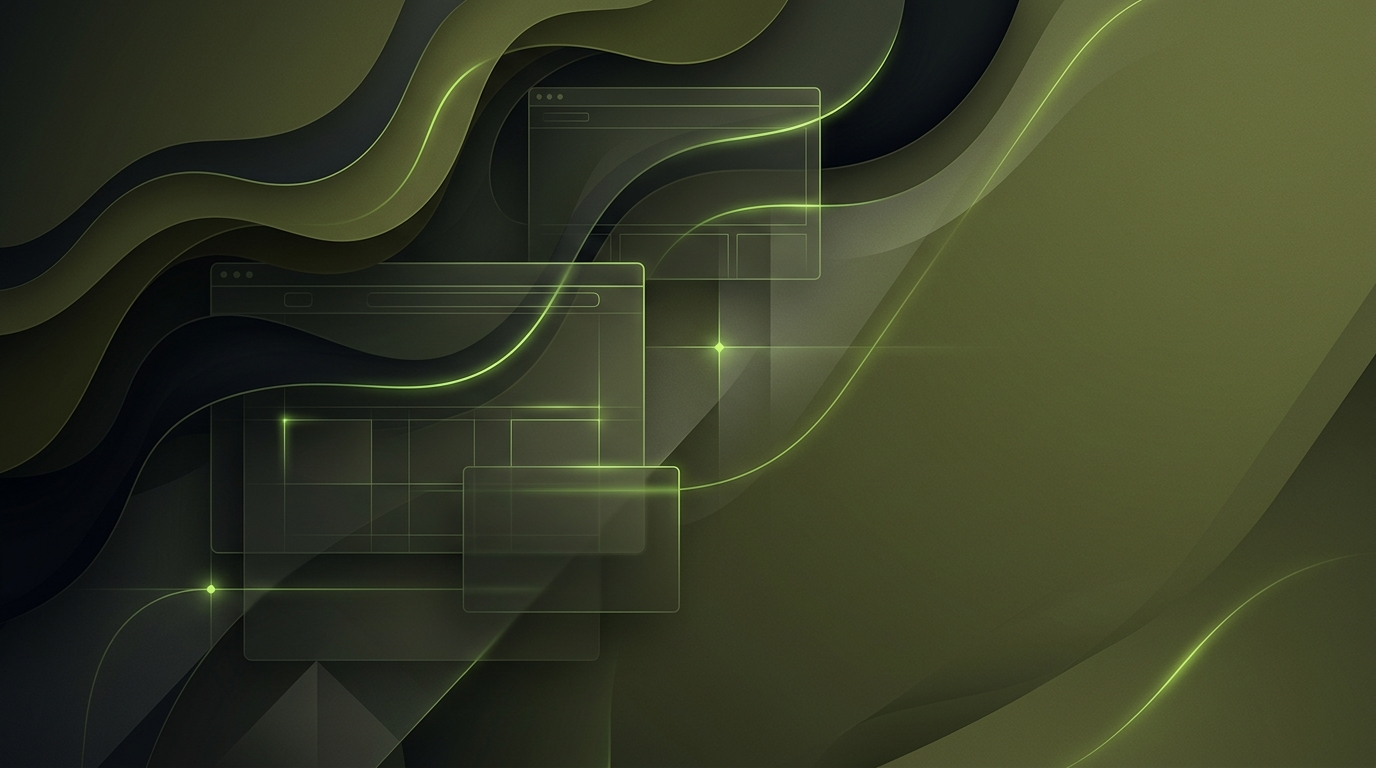
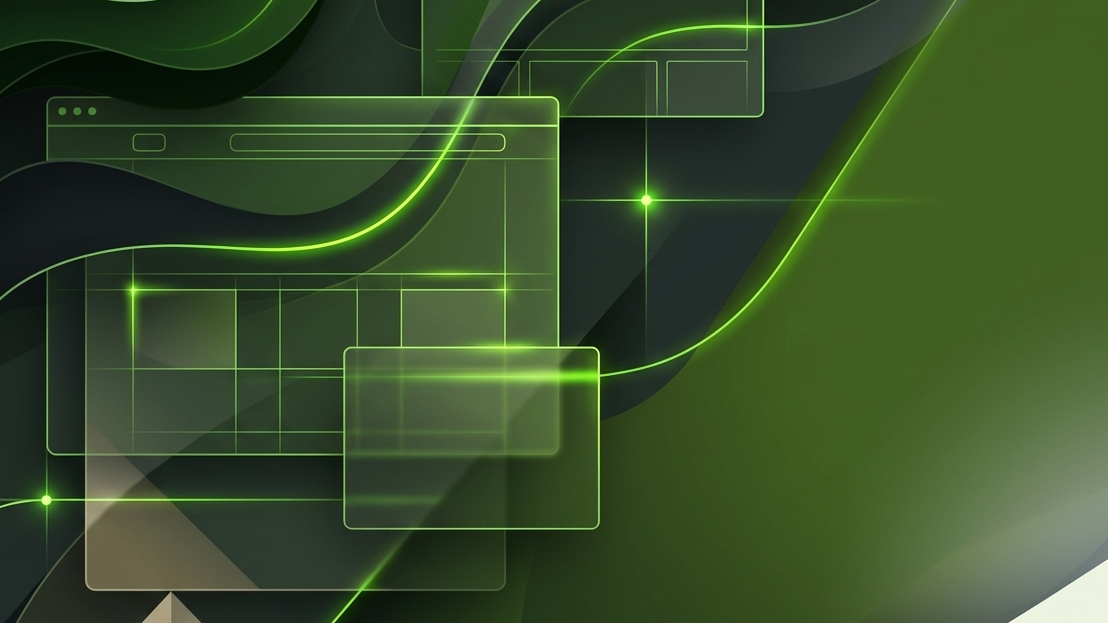
feat: update services section

diff --git a/src/components/services-section/service-item.tsx b/src/components/services-section/service-item.tsx
@@ -1,62 +1,61 @@
 import type { Service } from "../../types/service"
 
 type Props = {
-    service: Service
+	service: Service
 }
 
 export const ServiceItem = ({ service }: Props) => {
-    const Icon = service.icon
+	const Icon = service.icon
 
-    return (
-        <article className="group relative flex h-105 w-full shrink-0 overflow-hidden rounded-2xl border border-black/10">
-            {/* Background image */}
-            <img
-                src={service.image}
-                alt=""
-                className="absolute inset-0 h-full w-full object-cover transition-transform duration-700 group-hover:scale-105"
-            />
+	return (
+		<article className="group relative flex h-105 w-full shrink-0 overflow-hidden rounded-2xl border border-black/10">
 
-            {/* Overlay */}
-            <div className="absolute inset-0 bg-black/35 transition-colors duration-500 group-hover:bg-black/45" />
+			<img
+				src={service.image}
+				alt=""
+				className="absolute inset-0 h-full w-full object-cover transition-transform duration-700 group-hover:scale-105"
+			/>
 
-            <div className="absolute inset-0 bg-linear-to-t from-black/80 via-black/20 to-black/10" />
 
-            {/* Content */}
-            <div className="relative z-10 flex w-full flex-col p-7 sm:p-9">
-                <div className="flex items-start justify-between">
-                    <div className="flex h-14 w-14 items-center justify-center rounded-xl border border-accent/40 bg-accent/10 text-accent backdrop-blur-sm transition-all duration-500 group-hover:border-accent/70 group-hover:bg-accent/15">
-                        <Icon size={24} strokeWidth={1.5} />
-                    </div>
+			<div className="absolute inset-0 bg-black/60 transition-colors duration-500 group-hover:bg-black/80" />
 
-                    <span className="text-xs font-medium tracking-[0.2em] text-white/50">
-                        {service.number}
-                    </span>
-                </div>
+			<div className="absolute inset-0 bg-linear-to-t from-black/80 via-black/20 to-black/10" />
 
-                <div className="mt-auto max-w-2xl">
-                    <h3 className="text-3xl font-semibold leading-tight tracking-tight text-white sm:text-4xl">
-                        {service.title}
-                    </h3>
 
-                    <p className="mt-4 max-w-xl text-sm leading-relaxed text-white/70 sm:text-base">
-                        {service.description}
-                    </p>
+			<div className="relative z-10 flex w-full flex-col p-7 sm:p-9">
+				<div className="flex items-start justify-between">
+					<div className="flex h-14 w-14 items-center justify-center rounded-xl border border-accent/40 bg-accent/10 text-accent backdrop-blur-sm transition-all duration-500 group-hover:border-accent/70 group-hover:bg-accent/15">
+						<Icon size={24} strokeWidth={1.5} />
+					</div>
 
-                    <div className="mt-7 flex flex-wrap gap-2">
-                        {service.tags.map((tag) => (
-                            <span
-                                key={tag}
-                                className="rounded-full border border-white/15 bg-black/20 px-3 py-1 text-[10px] uppercase tracking-wider text-white/65 backdrop-blur-sm"
-                            >
-                                {tag}
-                            </span>
-                        ))}
-                    </div>
-                </div>
-            </div>
+					<span className="text-xs font-medium tracking-[0.2em] text-white/50">
+						{service.number}
+					</span>
+				</div>
 
-            {/* Accent line */}
-            <div className="absolute bottom-0 left-0 z-20 h-1 w-0 bg-accent transition-all duration-700 group-hover:w-full" />
-        </article>
-    )
+				<div className="mt-auto max-w-2xl">
+					<h3 className="text-3xl font-semibold leading-tight tracking-tight text-white sm:text-4xl">
+						{service.title}
+					</h3>
+
+					<p className="mt-4 max-w-xl text-sm leading-relaxed text-white/70 sm:text-base">
+						{service.description}
+					</p>
+
+					<div className="mt-7 flex flex-wrap gap-2">
+						{service.tags.map((tag) => (
+							<span
+								key={tag}
+								className="rounded-full border border-white/15 bg-black/20 px-3 py-1 text-[10px] uppercase tracking-wider text-white/65 backdrop-blur-sm"
+							>
+								{tag}
+							</span>
+						))}
+					</div>
+				</div>
+			</div>
+
+			<div className="absolute bottom-0 left-0 z-20 h-1 w-0 bg-accent transition-all duration-700 group-hover:w-full" />
+		</article>
+	)
 }

diff --git a/src/components/services-section/services.tsx b/src/components/services-section/services.tsx
@@ -21,10 +21,9 @@ export const Services = () => {
 	return (
 		<section
 			id="services"
-			className="relative w-full overflow-hidden bg-green-olive px-4 md:px-8 py-12 text-bg "
+			className="relative w-full overflow-hidden bg-[#e9f1db] px-4 md:px-8 py-12 text-bg "
 		>
 			<div className="mx-auto w-full max-w-6xl">
-				{/* Heading */}
 				<div className="flex flex-col gap-6 border-b border-black/10 pb-12 lg:flex-row lg:items-end lg:justify-between">
 					<div className="max-w-3xl">
 						<span className="flex items-center gap-3 text-sm font-semibold uppercase tracking-[0.2em] text-accent">
@@ -38,13 +37,12 @@ export const Services = () => {
 						</h2>
 					</div>
 
-					<p className="max-w-sm text-sm leading-relaxed text-black/50 sm:text-base">
+					<p className="max-w-sm text-right text-sm leading-relaxed text-black/50 sm:text-base">
 						Desenvolvimento, integração e evolução de produtos digitais
 						para transformar necessidades reais em soluções funcionais.
 					</p>
 				</div>
 
-				{/* Carousel */}
 				<div className="mt-10 overflow-hidden">
 					<div
 						className="flex transition-transform duration-700 ease-out"
@@ -63,7 +61,6 @@ export const Services = () => {
 					</div>
 				</div>
 
-				{/* Navigation */}
 				<div className="mt-7 flex items-center justify-between">
 					<div className="flex items-center gap-2">
 						{services.map((service, index) => (
@@ -91,7 +88,6 @@ export const Services = () => {
 					</button>
 				</div>
 
-				{/* Bottom CTA */}
 				<div className="flex flex-col gap-5 border-b border-black/10 py-10 sm:flex-row sm:items-center sm:justify-between">
 					<div>
 						<p className="text-lg font-medium">
